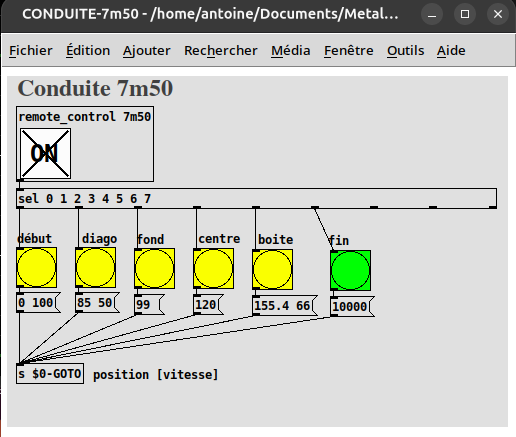
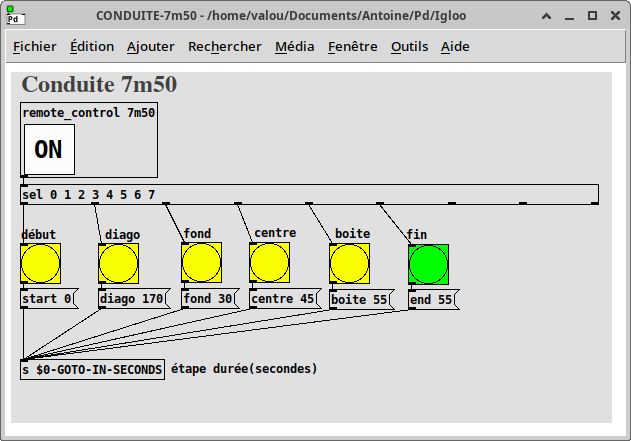
update docs

diff --git a/README.md b/README.md
@@ -45,6 +45,7 @@ La fenêtre principale comporte plusieurs parties :
     Le bouton **EDIT** ouvre la fenêtre d'édition de la trajectoire (cf chapitre *Édition de la trajectoire*).
 
 - ### Commande générale
+
     Le slider **DESTINATION** permet de commander la destination des moteurs, le long de la trajectoire programmée. La valeur correspond au temps de la séquence originale (dans la fenêtre d'Édition).
 
     Le slider **VITESSE** permet de commander la vitesse globale du déplacement, de 0 à 100% de la vitesse de la séquence originale.
@@ -54,9 +55,10 @@ Il peut arriver qu'il faille appuyer plusieurs fois avant que le voyant **PRET**
 Il peut aussi arriver que les moteurs ne puissent pas récupérer la situation... dans ce cas un RESET est nécessaire.
 
 - ### Conduite
-    Ce panneau permet de définir et déclencher un certain nombre de points d'arrêt (début, diago, fond etc.).  
-    Ces points sont définis par une destination et (optionnellement) une vitesse. Plusieurs définitions ("conduites") peuvent exister, par exemple "7m50" et "6m", s'appliquant à différentes trajectoires.  
-    Pour chaque "conduite", on définit, pour chaque point, la destination et la vitesse si elle doit changer :  
+
+    Ce panneau permet de déclencher le déplacement vers un point d'**étape** (début, diago, fond etc.), dans un temps donné en secondes.  
+    Plusieurs "conduites" peuvent être définies, par exemple "7m50" et "6m"; le fichier trajectoire du même nom (ex: "7m50") est automatiquement chargé lorsqu'on choisit une "conduite".  
+    Les **étapes** sont définies lors de l'édition de la trajectoire.
 
     ![conduite-7m50](img/conduite-7m50.png)
 
@@ -88,6 +90,9 @@ La trajectoire est définie par une position de départ et une suite de points, 
 Les boutons **nouveau point** permet de créer un nouveau point **avant** ou **après** le point actuel, le bouton **suppr** de supprimer le point actuel.
 
 Les boutons **PLAY**, **X2** (deux fois plus vite), **X10** ou **STOP** (dix fois plus vite) permettent de lancer ou arrêter l'animation sur la fenêtre graphique, mais n'envoient pas d'instruction aux moteurs. De même le slider **temps actuel** permet de déplacer manuellement la représentation de l'igloo tout au long du parcours.
+
+À un point donné peut être associé le nom d'une **étape** ("diago", "fond" etc.). Attention à ne pas utiliser le même nom pour plusieurs points.  
+Les étapes "start" et "end" sont automatiquement ajoutées (non visibles dans la fenêtre Édition).
 
 ## Fichiers de trajectoire
 
